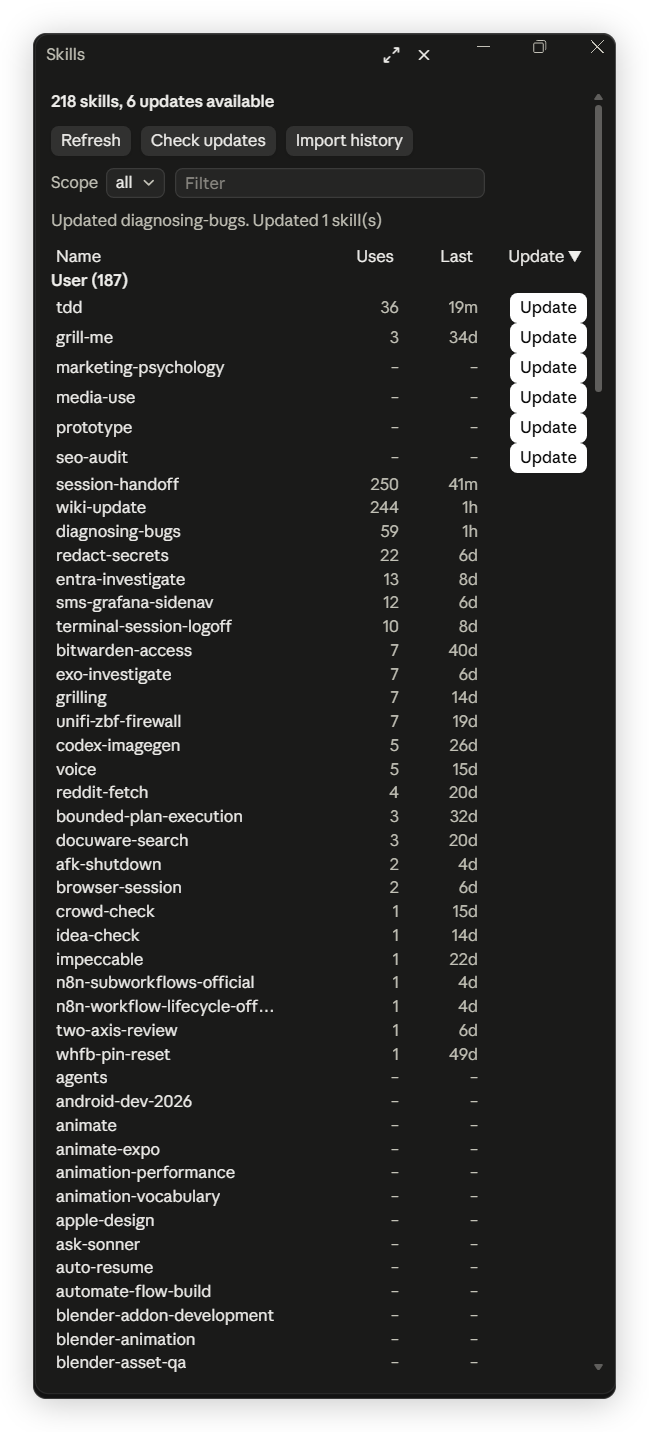
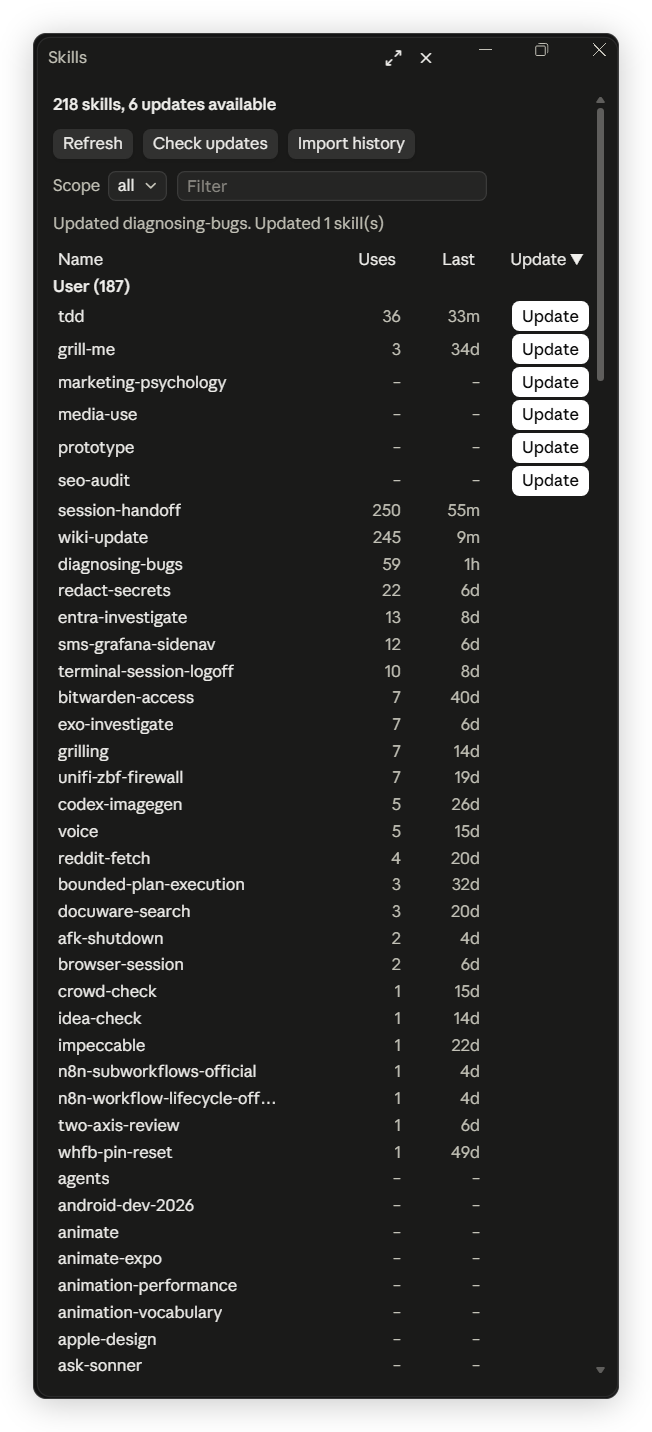
skill-manager: equal small gap between list rows, so Update buttons do not touch; new screenshot

diff --git a/mods/skill-manager/tests/pane.test.tsx b/mods/skill-manager/tests/pane.test.tsx
@@ -27,6 +27,19 @@ test('groups skills by scope, plugin skills under their plugin', async ($, on) =
   }
 })
 
+test('list rows are spaced by one small equal gap', async ($, on) => {
+  world(on)
+  await start($)
+
+  const ui = await $.ui.mount({ ...PANE, surface: 'desktop' })
+  const list = await ui.find({ key: 'list' })
+
+  // This engine build refuses step names (xs) for gap; a quarter cell keeps the gap small.
+  expect(list?.props.gap).toBe(0.25)
+  expect((await ui.findAll({ type: 'Box' })).filter(box => /^row:/.test(String(box.key))).every(box => box.props.marginTop === undefined)).toBe(true)
+  await ui.unmount()
+})
+
 test('a narrow pane cuts long names so a row stays one line', async ($, on) => {
   const long = 'a-very-long-skill-name-that-does-not-fit-the-pane'
   const files = {

diff --git a/mods/skill-manager/hooks/register.tsx b/mods/skill-manager/hooks/register.tsx
@@ -423,7 +423,7 @@ export const register: Register = on => {
           )}
         </Box>
         {status}
-        <Box flexDirection="column">
+        <Box key="list" flexDirection="column" gap={0.25}>
           <Box key="columns" flexDirection="row" gap={1}>
             <Box flexGrow={1}>{header('name', 'Name')}</Box>
             {cell(USES_WIDTH, header('uses', 'Uses'))}

diff --git a/mods/skill-manager/README.md b/mods/skill-manager/README.md
@@ -2,7 +2,7 @@
 
 A skill manager for Claude Code. It opens a pane that lists every installed skill (user, project and plugin), shows where each one came from and how often you used it, checks GitHub for newer versions, updates a skill from its source, and moves skills you no longer want to a trash folder.
 
-<img src="screenshots/skill-list.png" alt="skill-manager pane listing 218 skills" width="433">
+<img src="screenshots/skill-list.png" alt="skill-manager pane listing 218 skills" width="435">
 
 *The pane sorted by Update: six skills have a newer version on GitHub. Uses and Last come from live counts plus the imported transcript history.*
 
